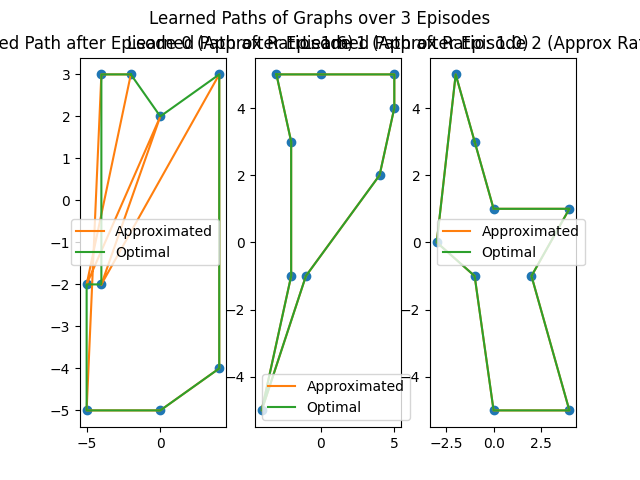
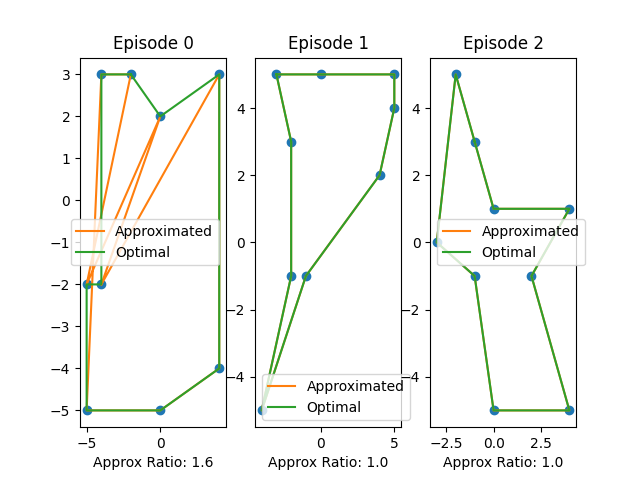
..

diff --git a/Analysis_3.py b/Analysis_3.py
@@ -67,7 +67,7 @@ class Analysis_3 (Analysis_2):
     def drawGraphs(self, graph_file, graphDist, n):
         G_S_r_list = self.getG_S_r(graph_file, graphDist, n)
         fig, axs = plt.subplots(1, n)
-        fig.suptitle("Learned Paths of Graphs over {} Episodes".format(n))
+        #fig.suptitle("Learned Paths of Graphs over {} Episodes".format(n))
 
         def graph_plot(i):
             G, S, r = G_S_r_list[i]
@@ -75,7 +75,8 @@ class Analysis_3 (Analysis_2):
             ordered_points = G.points
             closed = lambda z: z + (z[0],)
             x_true, y_true = tuple(zip(*ordered_points))
-            ax.set_title("Learned Path after Episode {} (Approx Ratio: {})".format(i, round(r, 2)))
+            ax.set_title("Episode {}".format(i))
+            ax.set_xlabel("Approx Ratio: {}".format(round(r, 2)))
             ax.plot(x_true, y_true, "o")
             x_approx, y_approx = tuple(zip(*[G.points[j] for j in S]))
             ax.plot(closed(x_approx), closed(y_approx), "-", label="Approximated")
